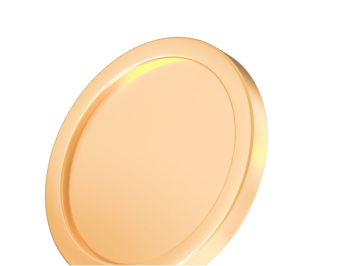
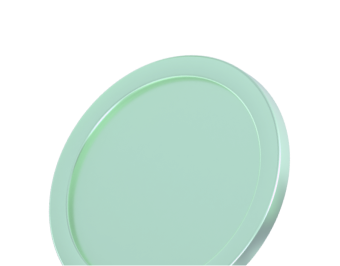
fix page

diff --git a/index.html b/index.html
@@ -75,13 +75,13 @@
 
             <div class="hidden md:flex items-center justify-center w-full md:ml-40">
                 <nav class="flex items-center text-[0.875rem] gap-[1.0625rem]">
-                    <a href="#advantages" class="hover:opacity-80">Плюсы</a>
-                    <a href="#about-us" class="hover:opacity-80">Компания</a>
+                    <a href="#advantages" class="hover:opacity-80">Преимущества</a>
+                    <a href="#about-us" class="hover:opacity-80">О нас</a>
                     <a href="/" class="mx-[2.0625rem]">
                         <img src="/assets/images/logo.svg" alt="Финстар Капитал">
                     </a>
-                    <a href="#invests" class="hover:opacity-80">Вложения</a>
-                    <a href="#contacts" class="hover:opacity-80">Связаться</a>
+                    <a href="#invests" class="hover:opacity-80">Стратегии</a>
+                    <a href="#contacts" class="hover:opacity-80">Контакты</a>
                 </nav>
             </div>
 
@@ -111,10 +111,10 @@
                  class="flex-1 flex flex-col items-center justify-center gap-6 text-[1.125rem]
                 translate-y-4 opacity-0 transition-all duration-300 ease-out
                 motion-reduce:transition-none">
-                <a href="#advantages" class="hover:opacity-80">Плюсы</a>
-                <a href="#about-us" class="hover:opacity-80">Компания</a>
-                <a href="#invests" class="hover:opacity-80">Вложения</a>
-                <a href="#contacts" class="hover:opacity-80">Связаться</a>
+                <a href="#advantages" class="hover:opacity-80">Преимущества</a>
+                <a href="#about-us" class="hover:opacity-80">О нас</a>
+                <a href="#invests" class="hover:opacity-80">Стратегии</a>
+                <a href="#contacts" class="hover:opacity-80">Контакты</a>
             </nav>
 
             <div id="menuCta"
@@ -137,18 +137,18 @@
             <div class="md:grid md:grid-cols-2 md:gap-2 md:items-center">
                 <div class="text-center">
                     <h1 class="font-semibold leading-none text-[2.3125rem] md:text-[3.75rem]">
-                        Выбирайте
+                        Откройте
                         <span class="font-semibold block text-[2.3125rem] md:text-[3.75rem] text-heading">
-                устойчивый
+                потенциал
               </span>
                     </h1>
 
                     <p class="mt-4 mb-4 md:mt-[0.6rem] md:mb-9 text-[1.125rem] md:text-[1.3125rem]">
-                        ЗПИФ против инфляции
+                        до 40% годовых
                     </p>
 
                     <p class="mb-6 md:mb-10 text-[0.8125rem] leading-5 md:text-[1rem] max-w-[24rem] mx-auto">
-                        доходностью до 25% годовых
+                        для инвестиций с плавающей доходностью
                     </p>
 
                     <div class="md:hidden -ml-4 -mr-4">
@@ -157,7 +157,7 @@
                     </div>
 
                     <a id="invest" href="#"
-                       class="mt-6 md:mt-0 items-center justify-center rounded-[25px]
+                       class="mt-6 md:mt-0 items-center justify-center rounded-[30px]
                        bg-hero-btn
                        text-white
                       text-[1.3125rem] md:text-[1.38rem]
@@ -454,10 +454,10 @@
                     </ul>
 
                     <a href="#"
-                       class="inline-flex items-center justify-center rounded-[12px] font-medium text-white bg-why-us-button
+                       class="inline-flex items-center justify-center rounded-[18px] font-medium text-white bg-why-us-button
                   text-[0.9rem] md:text-[1rem]
                   py-[1rem] md:py-[1.2rem] px-[1rem] md:px-[2rem] hover:opacity-90 transition">
-                        Оценить стратегии
+                        Анализировать риск
                     </a>
 
                     <img src="/assets/images/why_us_left_bg.png" alt="Диаграмма"
@@ -497,10 +497,10 @@
                     </ul>
 
                     <a href="#"
-                       class="inline-flex items-center justify-center rounded-[12px] text-white font-medium bg-why-us-button
+                       class="inline-flex items-center justify-center rounded-[18px] text-white font-medium bg-why-us-button
                   text-[0.9rem] md:text-[1rem]
                   py-[1rem] md:py-[1.2rem] px-[1rem] md:px-[2rem] hover:opacity-90 transition">
-                        Оценить стратегии
+                        Анализировать риск
                     </a>
 
                     <img src="/assets/images/why_us_right_bg.png" alt="Монета"
@@ -523,21 +523,22 @@
 
                     <div class="px-5 pb-0 md:px-[4.25rem] py-[1.875rem] md:py-[2.5rem] text-white text-left md:text-center max-w-[48rem] md:-ml-[4rem]">
                         <h3 class="font-semibold leading-tight text-[1.25rem] md:text-[1.5rem]">
-                            Оцените потенциал ЗПИФ <br /> против инфляции
+                            Познакомьтесь с нашими <br /> инвестиционными стратегиями
                         </h3>
 
                         <p class="mt-[0.75rem] md:mt-[1.3rem] text-[0.875rem] md:text-[1rem] leading-relaxed opacity-90">
-                            Получите экспертную оценку ваших инвестиционных возможностей и убедитесь в надежности нашей стратегии. Мы предложим персонализированный анализ, включая защиту ваших активов и возможности для стабильного роста. Обратитесь к нам для детальной консультации.</p>
+                            Откройте для себя возможности ЗПИФов с доходностью до 40% годовых. Наши эксперты помогут вам разобраться в нюансах и предложат план с минимальными рисками. Все процессы под контролем Банка России и лицензированных специалистов.
+                        </p>
                         <a href="#"
-                           class="mt-[1.9rem] md:mt-[2.25rem] block md:mx-auto items-center justify-center rounded-[12px] bg-white text-black
-                    text-[1.15rem] md:text-[1rem] px-4 md:px-[1.4rem] py-[1.25rem] transition hover:opacity-90 font-medium max-w-[15rem] text-center">
-                            Инвестировать
+                           class="mt-[1.9rem] md:mt-[2.25rem] block md:mx-auto items-center justify-center rounded-[18px] bg-white text-black
+                    text-[1.15rem] md:text-[1rem] px-4 md:px-[1.4rem] py-[1.25rem] transition hover:opacity-90 font-medium max-w-[19rem] text-center">
+                            Запустить инвестиции
                         </a>
                     </div>
                 </div>
 
                 <div class="md:hidden h-[10rem]"></div>
-                <div class="md:hidden absolute left-1/2 bottom-[-4.5rem] -translate-x-1/2 w-[20rem]">
+                <div class="md:hidden absolute left-1/2 bottom-[-10.5rem] -translate-x-1/2 w-[20rem]">
                     <div class="relative">
                         <div class="absolute bottom-[-10.3rem] left-1/2 -translate-x-1/2 w-[20rem] h-[12rem] rounded-t-full bg-contact-form-shape opacity-70"></div>
                     </div>

diff --git a/src/style.css b/src/style.css
@@ -10,36 +10,36 @@
 @theme {
     --font-display: "Montserrat", sans-serif;
 
-    --color-primary: rgba(100, 100, 100, 1);
+    --color-primary: rgba(35, 114, 186, 1);
 
-    --color-header-btn: rgba(0, 0, 0, 1);
+    --color-header-btn: rgba(43, 47, 86, 1);
 
-    --color-heading: rgba(100, 100, 100, 1);
-    --color-hero-btn: rgba(100, 100, 100, 1);
+    --color-heading: rgba(35, 114, 186, 1);
+    --color-hero-btn: rgba(35, 114, 186, 1);
 
     --color-background-card: rgba(239, 249, 255, 1);
 
-    --color-cards-advantages: rgba(255, 251, 240, 1);
+    --color-cards-advantages: rgba(243, 244, 255, 1);
     --color-advantages-subheading: rgba(0, 114, 208, 1);
 
     --color-why-us-subheading: rgba(83, 123, 18, 1);
-    --color-why-us-left: rgba(244, 253, 245, 1);
-    --color-why-us-right: rgba(244, 253, 245, 1);
-    --color-why-us-button: rgba(100, 100, 100, 1);
+    --color-why-us-left: rgba(237, 255, 244, 1);
+    --color-why-us-right: rgba(237, 255, 244, 1);
+    --color-why-us-button: rgba(35, 114, 186, 1);
 
     --color-card-two-special-text: rgba(127, 17, 0, 1);
     --color-card-three-special-text: rgba(0, 127, 88, 1);
     --color-card-four-special-text: rgba(202, 131, 8, 1);
 
-    --color-card-one: rgba(244, 253, 245, 1);
-    --color-card-two: rgba(255, 248, 225, 1);
-    --color-card-three: rgba(244, 253, 245, 1);
-    --color-card-four: rgba(255, 248, 225, 1);
+    --color-card-one: rgba(237, 246, 255, 1);
+    --color-card-two: rgba(237, 255, 244, 1);
+    --color-card-three: rgba(237, 246, 255, 1);
+    --color-card-four: rgba(237, 255, 244, 1);
 
-    --color-contact-form: rgba(100, 100, 100, 1);
-    --color-contact-form-shape: rgba(72, 72, 72, 1);
+    --color-contact-form: rgba(35, 114, 186, 1);
+    --color-contact-form-shape: rgba(1, 80, 153, 1);
 
-    --color-footer: rgba(59, 51, 45, 1);
+    --color-footer: rgba(41, 41, 47, 1);
 }
 
 @layer utilities {
@@ -63,7 +63,7 @@
         height: 500px;
         top: 9%;
         left: -17%;
-        background: radial-gradient(50% 50% at 50% 50%, rgba(166, 166, 166, 0.4) 0%, rgba(236, 236, 236, 0) 100%);
+        background: radial-gradient(50% 50% at 50% 50%, rgba(157, 211, 255, 0.4) 0%, rgba(157, 211, 255, 0) 100%);
     }
 
     .bg-glow-invests {
@@ -71,7 +71,7 @@
         height: 200px;
         bottom: 10%;
         right: 4%;
-        background: radial-gradient(50% 50% at 50% 50%, rgba(157, 211, 255, 0.4) 0%, rgba(157, 211, 255, 0) 100%);
+        background: radial-gradient(50% 50% at 50% 50%, rgba(166, 166, 166, 0.4) 0%, rgba(236, 236, 236, 0) 100%);
     }
 
     .section-spacing {
